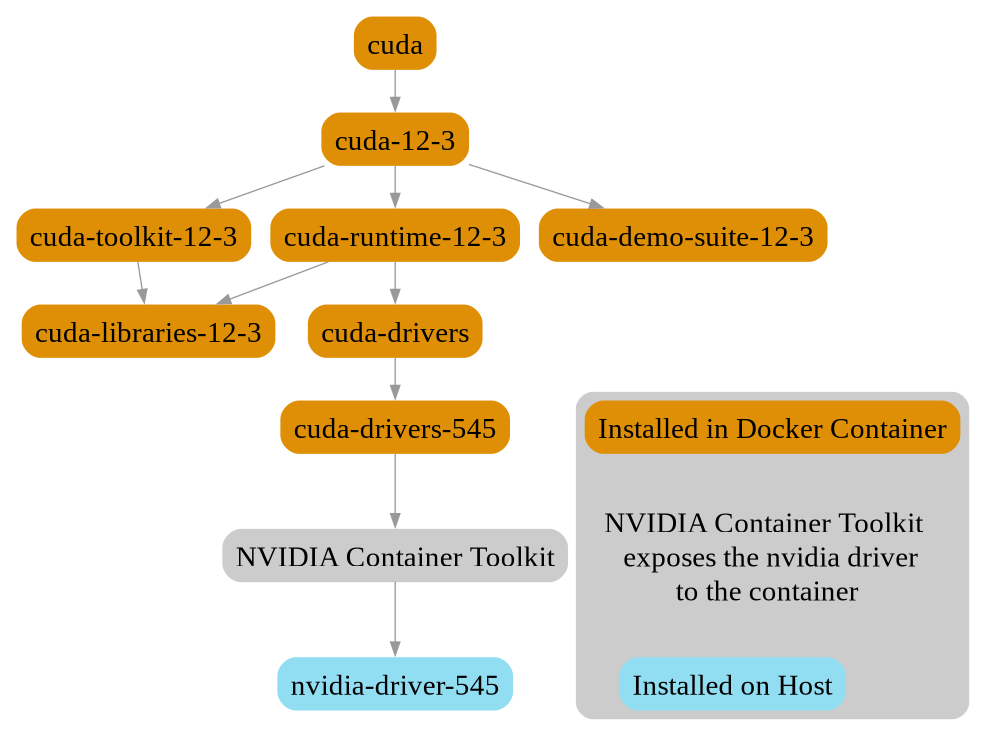
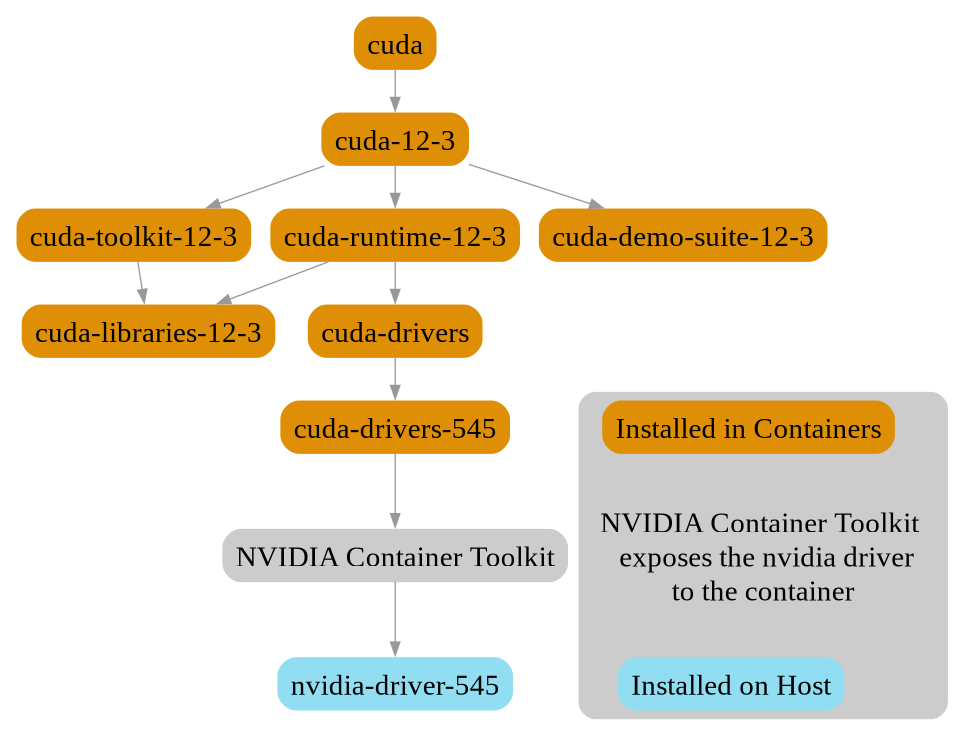
Update README.md

diff --git a/README.md b/README.md
@@ -1,17 +1,38 @@
 # Open Source AI Machine Setup
 
-This repo contains scripts for setting up `docker`, `nvidia-driver`, and [`nvidia-container-toolkit`](https://docs.nvidia.com/datacenter/cloud-native/container-toolkit/latest/index.html) from a fresh installation of Ubuntu Server.
+This repo contains scripts for setting up `docker`, `nvidia-driver`, and [`NVIDIA Container Toolkit`](https://docs.nvidia.com/datacenter/cloud-native/container-toolkit/latest/index.html) on a fresh installation of Ubuntu Server.
+
+The purpose of this setup is to allow applications to run in isolated containers with minimal dependencies installed on the host. This simplifies dependency management, allowing each application to install whatever versions of python, pytorch, CUDA, etc that it needs. Keeping the host system simple and encouraging the use of containers also encourages users to be explicit with the dependencies of each application they are running or developing, and ensures that the machine can easily be shared between several (human) users with ease.
+
+## Background Info
+
+Installing `NVIDIA` drivers and packages can be confusing. Here is a simplified explanation of the most relevant packages:
+
+!["NVIDIA Container Toolkit simple graph"](/nvidia-dependencies-simple-2.png "NVIDIA Container Toolkit simple graph")
+
+| Package                    | Purpose                                                                      |
+| :------------------------- | :--------------------------------------------------------------------------- |
+| `cuda-toolkit`             | Needed for developing CUDA applications                                      |
+| `cuda-runtime`             | Needed for running CUDA applications                                         |
+| `nvidia-driver`            | Needed to allow programs to use the GPU                                      |
+| `nvidia-container-toolkit` | Exposes the `nvidia-driver` to containers (like `docker`, `containerd`, etc) |
+
+With this set up, each application can be isolated in its own container. Applications relying on different versions of python, pytorch, or CUDA can be configured independently (without using python `venvs`.)
+
+In practice, the `apt-cache` dependency graph ends up looking a bit more complicated than the diagram above. A slightly more accurate picture (with specific version numbers) is shown in the image below:
 
 !["NVIDIA Container Toolkit dependency graph"](/nvidia-dependencies-simple.png "NVIDIA Container Toolkit graph visualization")
 
-The setup scripts assume you have a `control node` and a `target node`:
+An even more detailed picture is available in [nvidia-dependencies.png](/nvidia-dependencies.png).
+
+## Getting Started
+
+For setup, you'll need a `control node` and a `target node`:
 
 - The `control node` is the computer where you will issue `ansible` commands.
 - The `target node` is the (remote) computer that you are trying to configure.
 
-## Prerequisites
-
-Setup starts with a new copy of Ubuntu Server 23.10 on the target node.
+The target node should have a fresh installation of Ubuntu Server 23.10.
 
 > In retrospect, things would have been easier with 22.04, because NVIDIA officially supports `cuda` and `nvidia-container-toolkit` on ubuntu 22.04.
 
@@ -90,3 +111,10 @@ The `fast.ai` course on deep learning and machine learning comes includes severa
 
 - Navigate to the `fastbook` directory.
 - Follow the instructions in `fastbook/README.md`.
+
+## Running or developing applications
+
+Once the base system is set up, users are encouraged to create a new docker container for each application they want to run or develop. If they wish to create a new base image, they will typically want to specify which CUDA dependencies they will need:
+
+- For development, the `cuda` package (which includes both the `cuda-runtime`, `cuda-toolkit`, and some example programs) is usually best. Users may install `cuda-runtime` and `cuda-toolkit` instead of `cuda` for a smaller image (because the example programs will be omitted).
+- For running applications, it may be enough to just install the `cuda-runtime` without `cuda-toolkit`.
